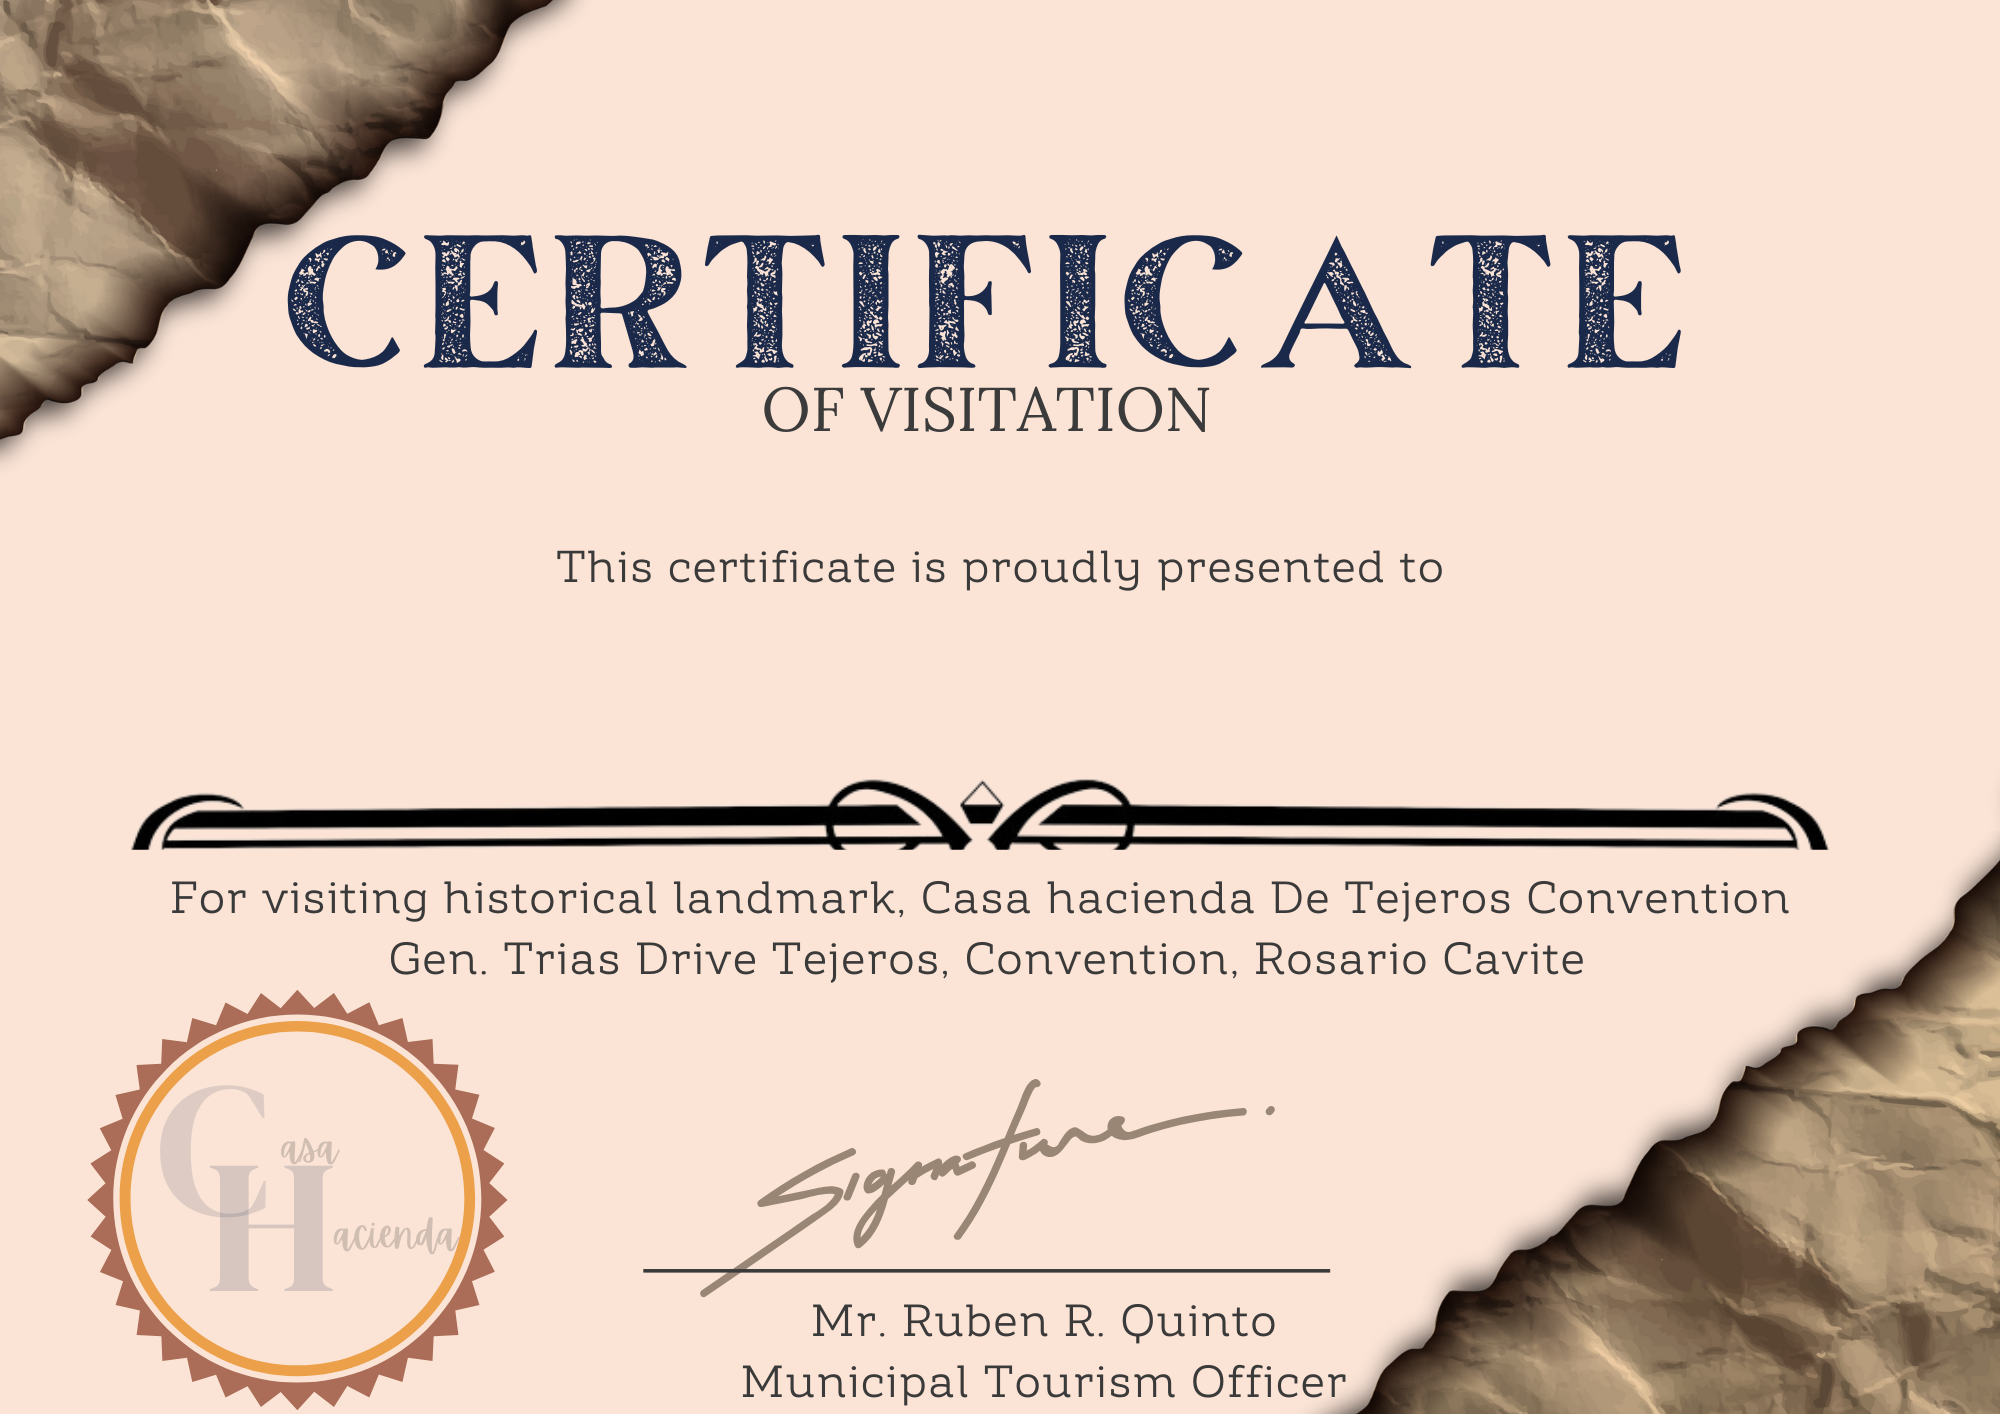
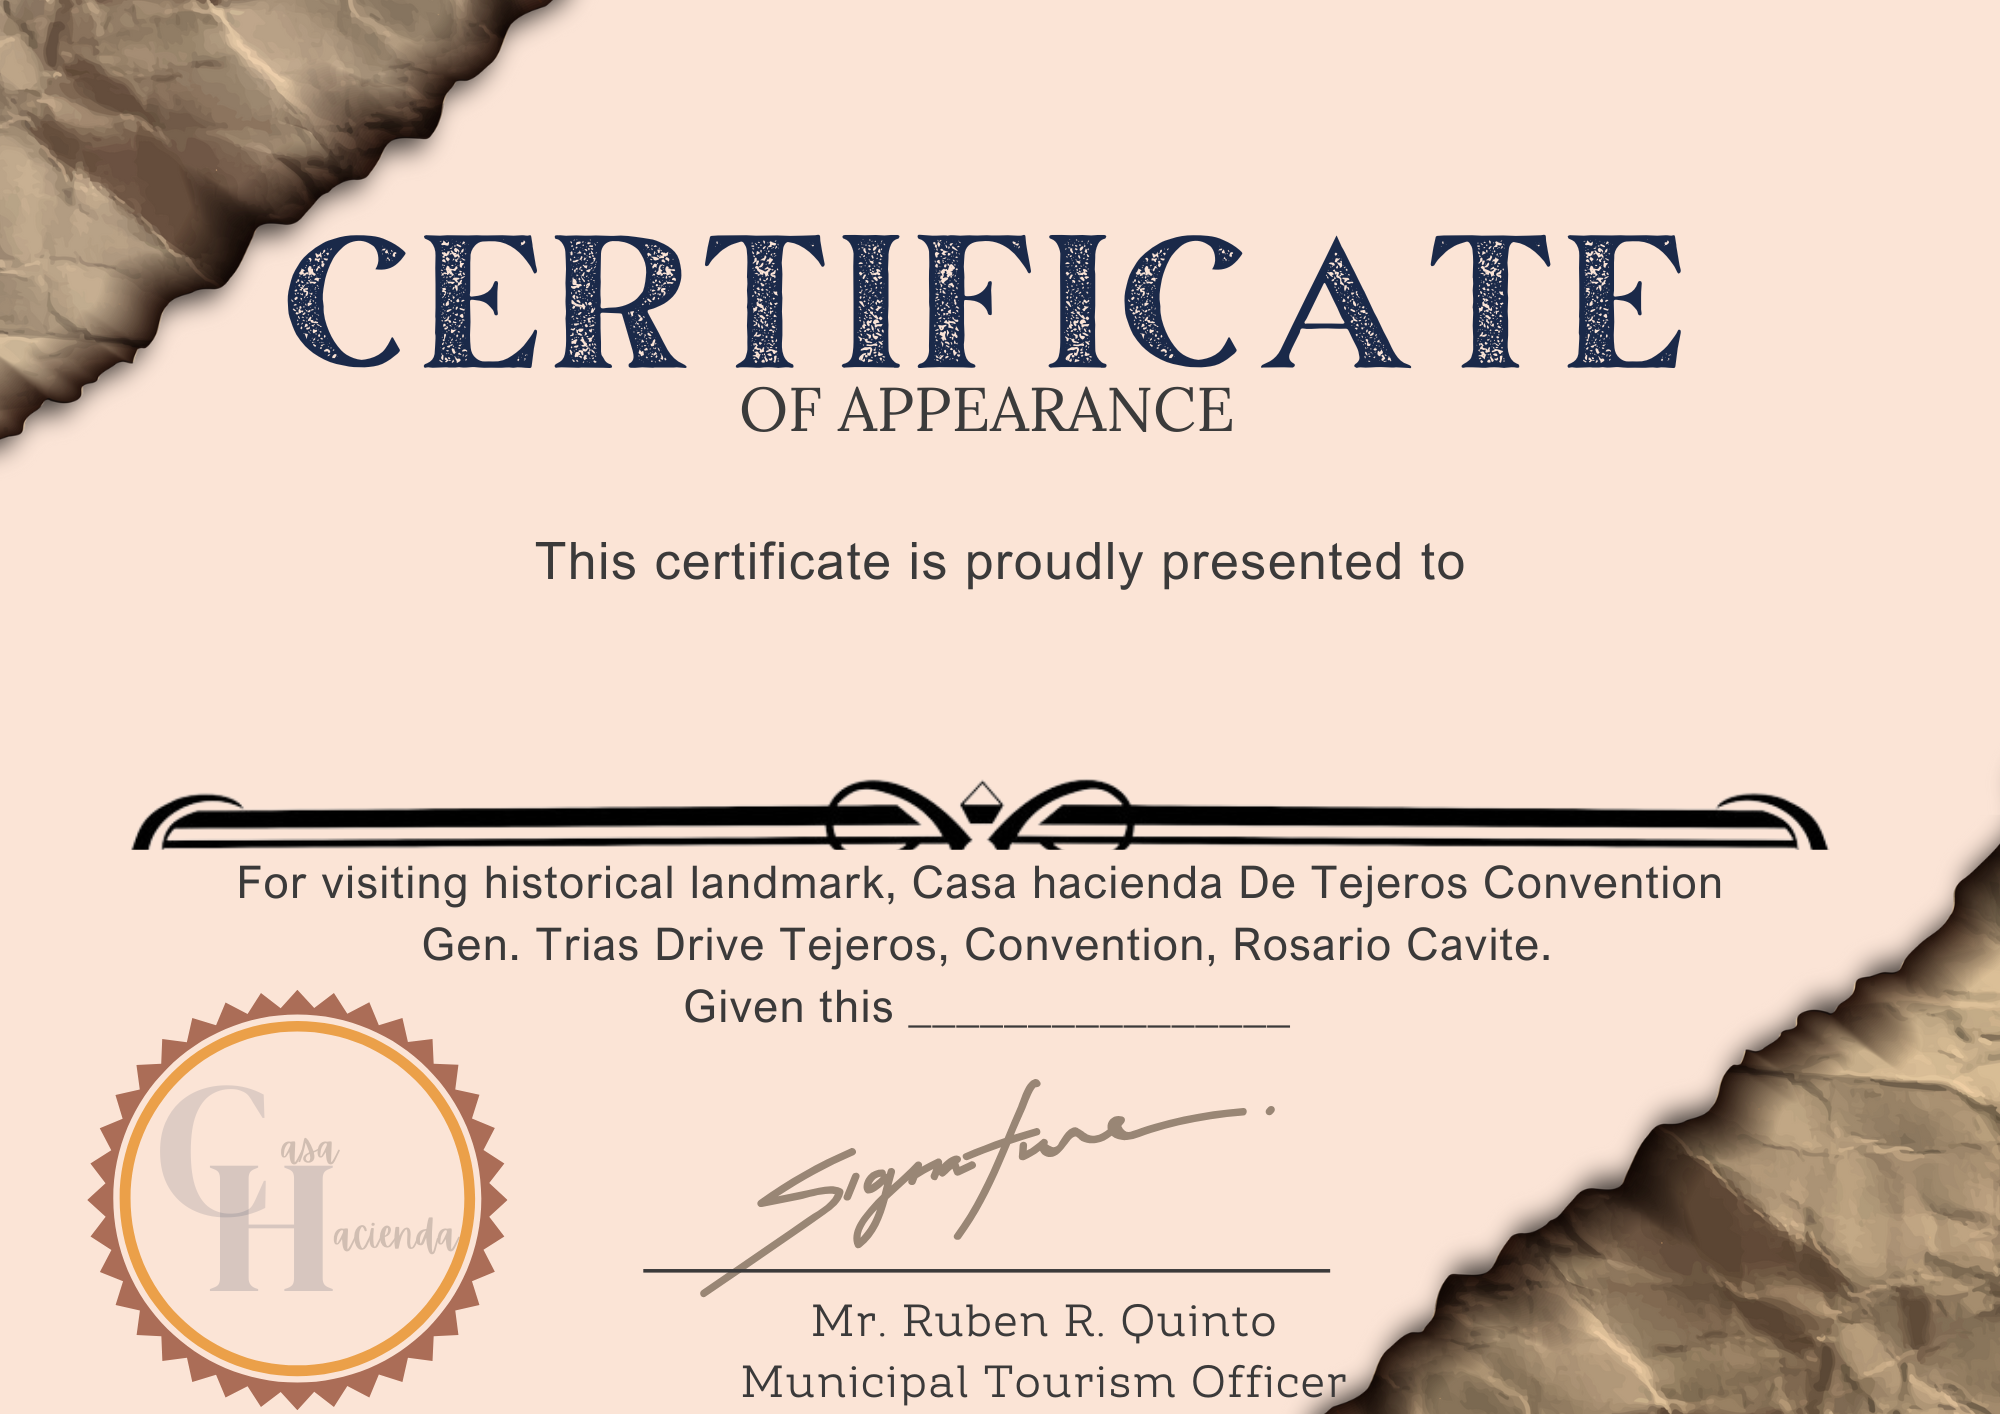
shinra tensei

diff --git a/visitorslist.php b/visitorslist.php
@@ -78,6 +78,11 @@
             width: 10px;
             text-align: center;
         }
+
+        .search-box {
+            border: 1px solid #5D9C59;
+            width: 500px;
+        }
     </style>
 </head>
 <body>
@@ -227,6 +232,7 @@
 
         <!-- Table Section -->
         <div id="table-container" class="container-fluid">
+            <input type="text" id="customSearchBox" class="form-control mb-3 search-box" placeholder="Search visitors...">
             <table id="visitorTable" class="table table-bordered text-center">
                 <thead class="bg-dark text-white">
                     <tr>
@@ -394,14 +400,24 @@
     <script src="https://cdn.datatables.net/1.13.6/js/jquery.dataTables.min.js"></script>
     <script src="vendor/datables/datatables.min.js"></script>
     <script>
+        function getOrdinalSuffix(day) {
+            if (day > 3 && day < 21) return 'th';
+            switch (day % 10) {
+                case 1: return 'st';
+                case 2: return 'nd';
+                case 3: return 'rd';
+                default: return 'th';
+            }
+        }
+
         $(document).ready(function () {
             setTimeout(function () {
                 let table = $('#visitorTable').DataTable({
                     "paging": true,
-                    "searching": true, // Keep DataTables' built-in search
+                    "searching": true,
                     "lengthChange": false,
                     "pageLength": 10,
-                    "ordering": false, // Allow sorting
+                    "ordering": false,
                     "info": false,
                     "language": {
                         "paginate": {
@@ -409,7 +425,11 @@
                             "next": "<i class='fas fa-chevron-right'></i>"
                         }
                     },
-                    "dom": '<"top"f>rt<"bottom"p><"clear">'
+                    dom: 'rt<"bottom"p><"clear">'
+                });
+
+                $('#customSearchBox').on('keyup', function () {
+                    table.search(this.value).draw();
                 });
 
                 // Custom filtering function
@@ -478,6 +498,12 @@
         $("#generateCertificateBtn").click(function () {
             var visitorName = $(this).attr("data-visitor-name");
             var rawDate = $(this).attr("data-visitor-date");
+            var date = new Date(rawDate);
+            var day = date.getDate();
+            var suffix = getOrdinalSuffix(day);
+            var month = date.toLocaleString('default', { month: 'long' });
+            var year = date.getFullYear();
+            var formattedDate = `${day}${suffix} of ${month}, ${year}`;
 
             if (!visitorName) {
                 alert("Visitor name is missing!");
@@ -496,14 +522,14 @@
             printWindow.document.write('.certificate { position: relative; width: 100%; height: 100vh; overflow: hidden; }');
             printWindow.document.write('img { width: 100%; height: 100vh; object-fit: cover; }');
             printWindow.document.write('.name { position: absolute; top: 50%; left: 50%; transform: translate(-50%, -50%); font-size: 70px; font-weight: bold; white-space: nowrap; }');
-            printWindow.document.write('.date { position: absolute; top: 69%; left: 50%; transform: translateX(-50%); font-size: 25px; font-family: Nova; font-weight: normal; }');
+            printWindow.document.write('.date { position: absolute; top: 69%; left: 55%; transform: translateX(-50%); font-size: 25px; font-family: Nova; font-weight: normal; }');
             printWindow.document.write('</style></head><body>');
 
             // Certificate layout
             printWindow.document.write('<div class="certificate">');
-            printWindow.document.write('<img src="img/certificate.png" alt="Certificate Background">');
+            printWindow.document.write('<img src="img/cert.png" alt="Certificate Background">');
             printWindow.document.write('<div class="name">' + visitorName + '</div>');
-            printWindow.document.write('<div class="date">' + rawDate + '</div>');
+            printWindow.document.write('<div class="date">' + formattedDate + '</div>');
             printWindow.document.write('</div>');
 
             printWindow.document.write('</body></html>');

diff --git a/admin-dashboard.php b/admin-dashboard.php
@@ -92,7 +92,8 @@
     <link rel="stylesheet" href="vendor/bootstrap/css/bootstrap.min.css">
     <link rel="stylesheet" href="vendor/fontawesome-free/css/all.min.css">
     <link rel="stylesheet" href="vendor/fontawesome-free/css/fontawesome.min.css">
-    <link rel="icon" href="img/rosariologo.png">
+    
+    <link rel="icon" type="image/png" href="img/rosariologo.png">
 
     <style>
     <?php include 'sidebarcss.php'; ?>
@@ -327,29 +328,27 @@
                                 <div class="card-header header-title">Upcoming Schedules</div>
                                 <div class="card-body">
                                     <ul class="list-unstyled">
-                                        <?php if (count($schedules) > 0): ?>
-                                            <?php foreach ($schedules as $row): ?>
-                                                <?php
-                                                    $dateFormatted = date('M d, Y', strtotime($row['date']));
-                                                    $status = strtolower($row['status']);
+                                        <?php
+                                        $hasUpcoming = false;
+                                        foreach ($schedules as $row):
+                                            if (strtolower($row['status']) !== 'upcoming') continue;
+                                            $hasUpcoming = true;
 
-                                                    // Badge color logic
-                                                    $statusClass = 'text-secondary';
-                                                    if ($status === 'ongoing') $statusClass = 'text-success';
-                                                    elseif ($status === 'upcoming') $statusClass = 'text-warning';
-                                                    elseif ($status === 'cancelled') $statusClass = 'text-danger';
-                                                ?>
-                                                <li class="mb-3 d-flex align-items-center justify-content-evenly upcom">
-                                                    <div class="">
-                                                        <div class="fw-semibold"><?= htmlspecialchars($row['name']) ?></div>
-                                                        <small class="text-muted"><?= $dateFormatted ?></small>
-                                                    </div>
-                                                    <div class="mt-1">
-                                                        <span class="<?= $statusClass ?> fw-semibold"><?= ucfirst($status) ?></span>
-                                                    </div>
-                                                </li>
-                                            <?php endforeach; ?>
-                                        <?php else: ?>
+                                            $dateFormatted = date('M d, Y', strtotime($row['date']));
+                                            $statusClass = 'text-warning'; // for 'upcoming'
+                                        ?>
+                                            <li class="mb-3 d-flex align-items-center justify-content-evenly upcom">
+                                                <div>
+                                                    <div class="fw-semibold"><?= htmlspecialchars($row['name']) ?></div>
+                                                    <small class="text-muted"><?= $dateFormatted ?></small>
+                                                </div>
+                                                <div class="mt-1">
+                                                    <span class="<?= $statusClass ?> fw-semibold">Upcoming</span>
+                                                </div>
+                                            </li>
+                                        <?php endforeach; ?>
+
+                                        <?php if (!$hasUpcoming): ?>
                                             <li>No upcoming schedules.</li>
                                         <?php endif; ?>
                                     </ul>
